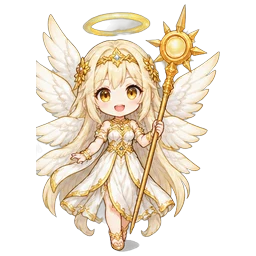
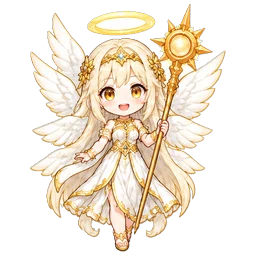
chibi walk sprites set01 (white bg, all 10) + tools/chibi_cut.py（白背景のシートを切り分ける）
Claude-Session: https://claude.ai/code/session_01SANMn1VMG1pmg1ein7rumd

diff --git a/tools/chibi_cut.py b/tools/chibi_cut.py
@@ -1,0 +1,41 @@
+# 白背景のシートを切り分け：外側の白（ふちからつながる白）だけ透明にし、かたまりを一番近いマスに割り当てる
+import sys, numpy as np, cv2
+from PIL import Image
+src, ids, out = sys.argv[1], sys.argv[2].split(','), sys.argv[3]
+cols, rows = int(sys.argv[4]) if len(sys.argv) > 4 else 5, int(sys.argv[5]) if len(sys.argv) > 5 else 2
+rgb = np.array(Image.open(src).convert('RGB')).astype(np.int16); H, W, _ = rgb.shape
+wh = (rgb.min(axis=2) > 228) & ((rgb.max(axis=2) - rgb.min(axis=2)) < 22)
+n, lab = cv2.connectedComponents(wh.astype(np.uint8), connectivity=4)
+border = set(np.unique(np.concatenate([lab[0], lab[-1], lab[:, 0], lab[:, -1]]))) - {0}
+bg = np.isin(lab, list(border))
+# 大きい白の穴（キャラのすき間）も背景：面積が大きく、ほぼ真っ白
+for i in range(1, n):
+    if i in border: continue
+    m = lab == i
+    if m.sum() > 2500 and rgb[m].min(axis=1).mean() > 245: bg |= m
+fg = ~bg
+fg = cv2.morphologyEx(fg.astype(np.uint8), cv2.MORPH_OPEN, np.ones((2, 2), np.uint8))
+# ふちのやわらかさ：背景に接する前景の、白っぽさでアルファを下げる
+dist = cv2.distanceTransform(fg, cv2.DIST_L2, 3)
+whiteness = (rgb.min(axis=2) - 180).clip(0, 75) / 75.0
+alpha = np.where(fg > 0, 255, 0).astype(np.float32)
+edge = (fg > 0) & (dist < 2.5)
+alpha[edge] = 255 * (1 - 0.85 * whiteness[edge])
+rgba = np.dstack([rgb.astype(np.uint8), alpha.clip(0, 255).astype(np.uint8)])
+nc, cl, st, cen = cv2.connectedComponentsWithStats(fg, connectivity=8)
+cells = {k: np.zeros((H, W), bool) for k in range(len(ids))}
+for i in range(1, nc):
+    if st[i, cv2.CC_STAT_AREA] < 40: continue
+    cx, cy = cen[i]; c = min(cols - 1, int(cx * cols / W)); r = min(rows - 1, int(cy * rows / H)); k = r * cols + c
+    if k < len(ids): cells[k] |= cl == i
+sheet = Image.new('RGBA', (cols * 200, rows * 200), (60, 60, 70, 255))
+for k, gid in enumerate(ids):
+    if gid == '-' or not cells[k].any(): continue
+    ys, xs = np.where(cells[k]); a = rgba.copy(); a[..., 3] = np.where(cells[k], a[..., 3], 0)
+    cc = Image.fromarray(a[ys.min():ys.max() + 1, xs.min():xs.max() + 1])
+    s = min(240 / cc.width, 248 / cc.height)
+    cc = cc.resize((max(1, round(cc.width * s)), max(1, round(cc.height * s))), Image.LANCZOS)
+    o = Image.new('RGBA', (256, 256), (0, 0, 0, 0)); o.paste(cc, ((256 - cc.width) // 2, 256 - cc.height - 4), cc)
+    o.save(f'{out}/{gid}.webp', quality=88)
+    r, c = divmod(k, cols); t = o.resize((190, 190)); sheet.paste(t, (c * 200 + 5, r * 200 + 5), t)
+sheet.save(f'{out}/_check.png')
